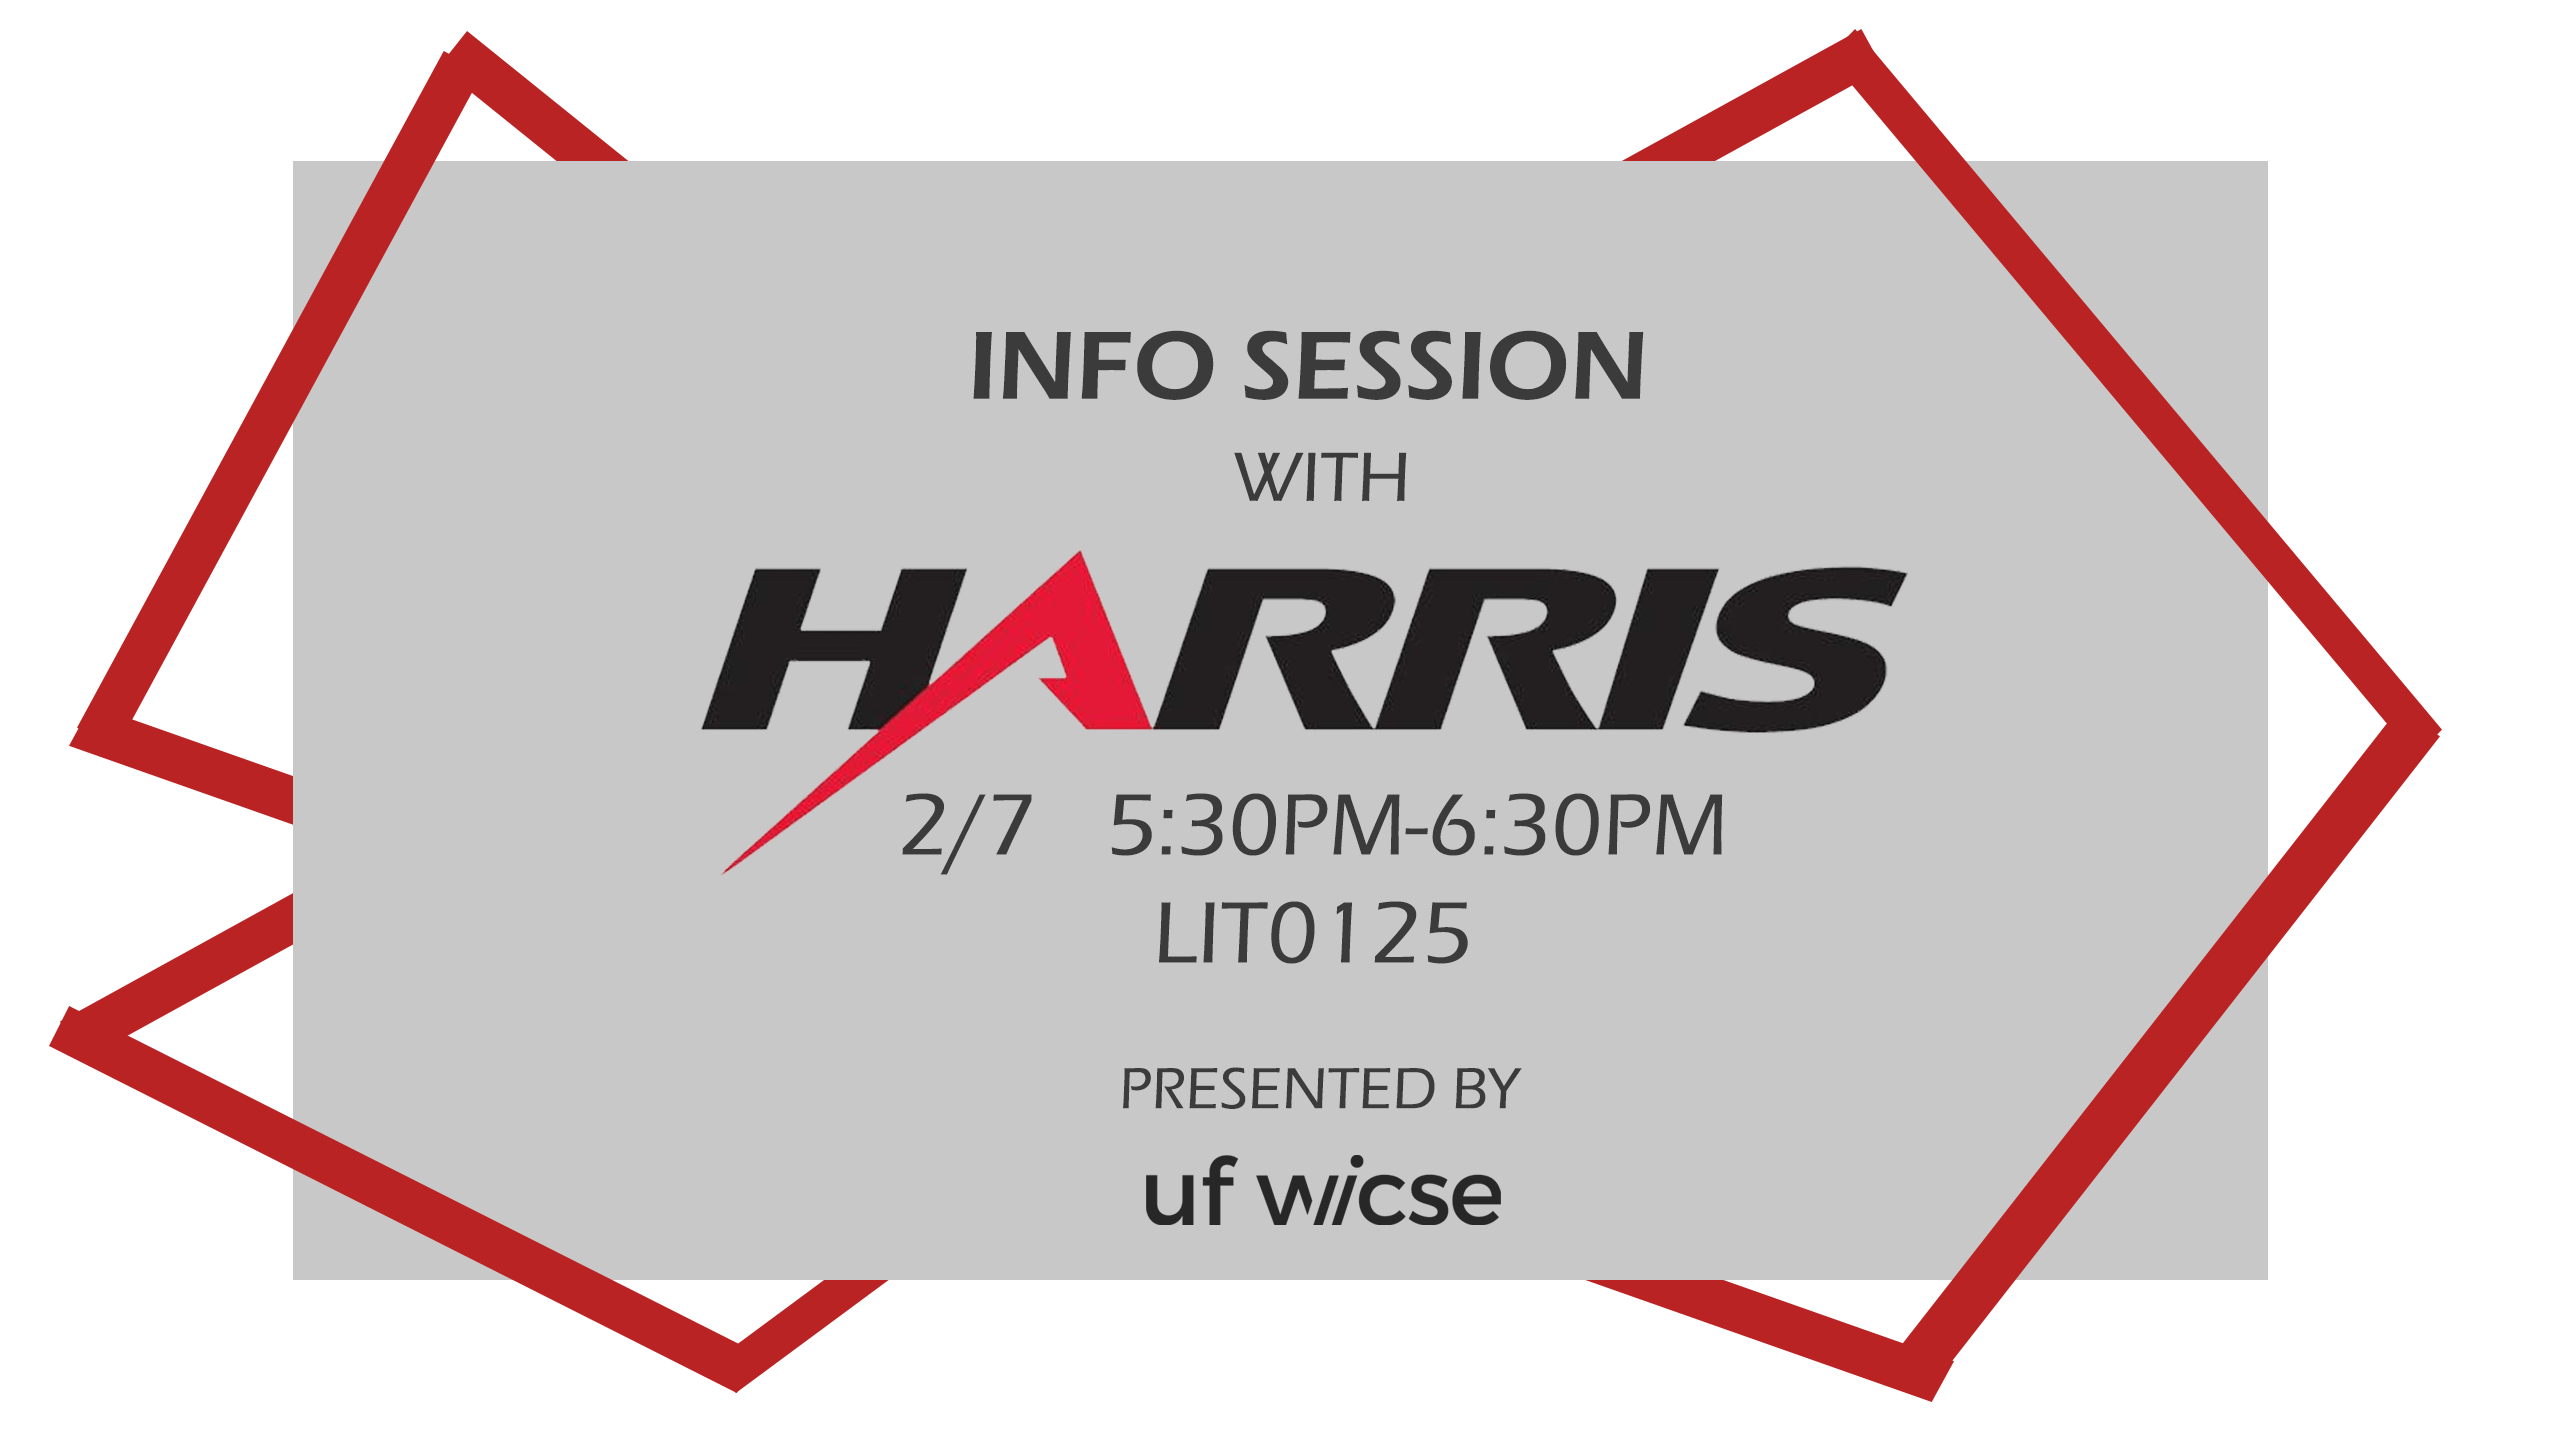
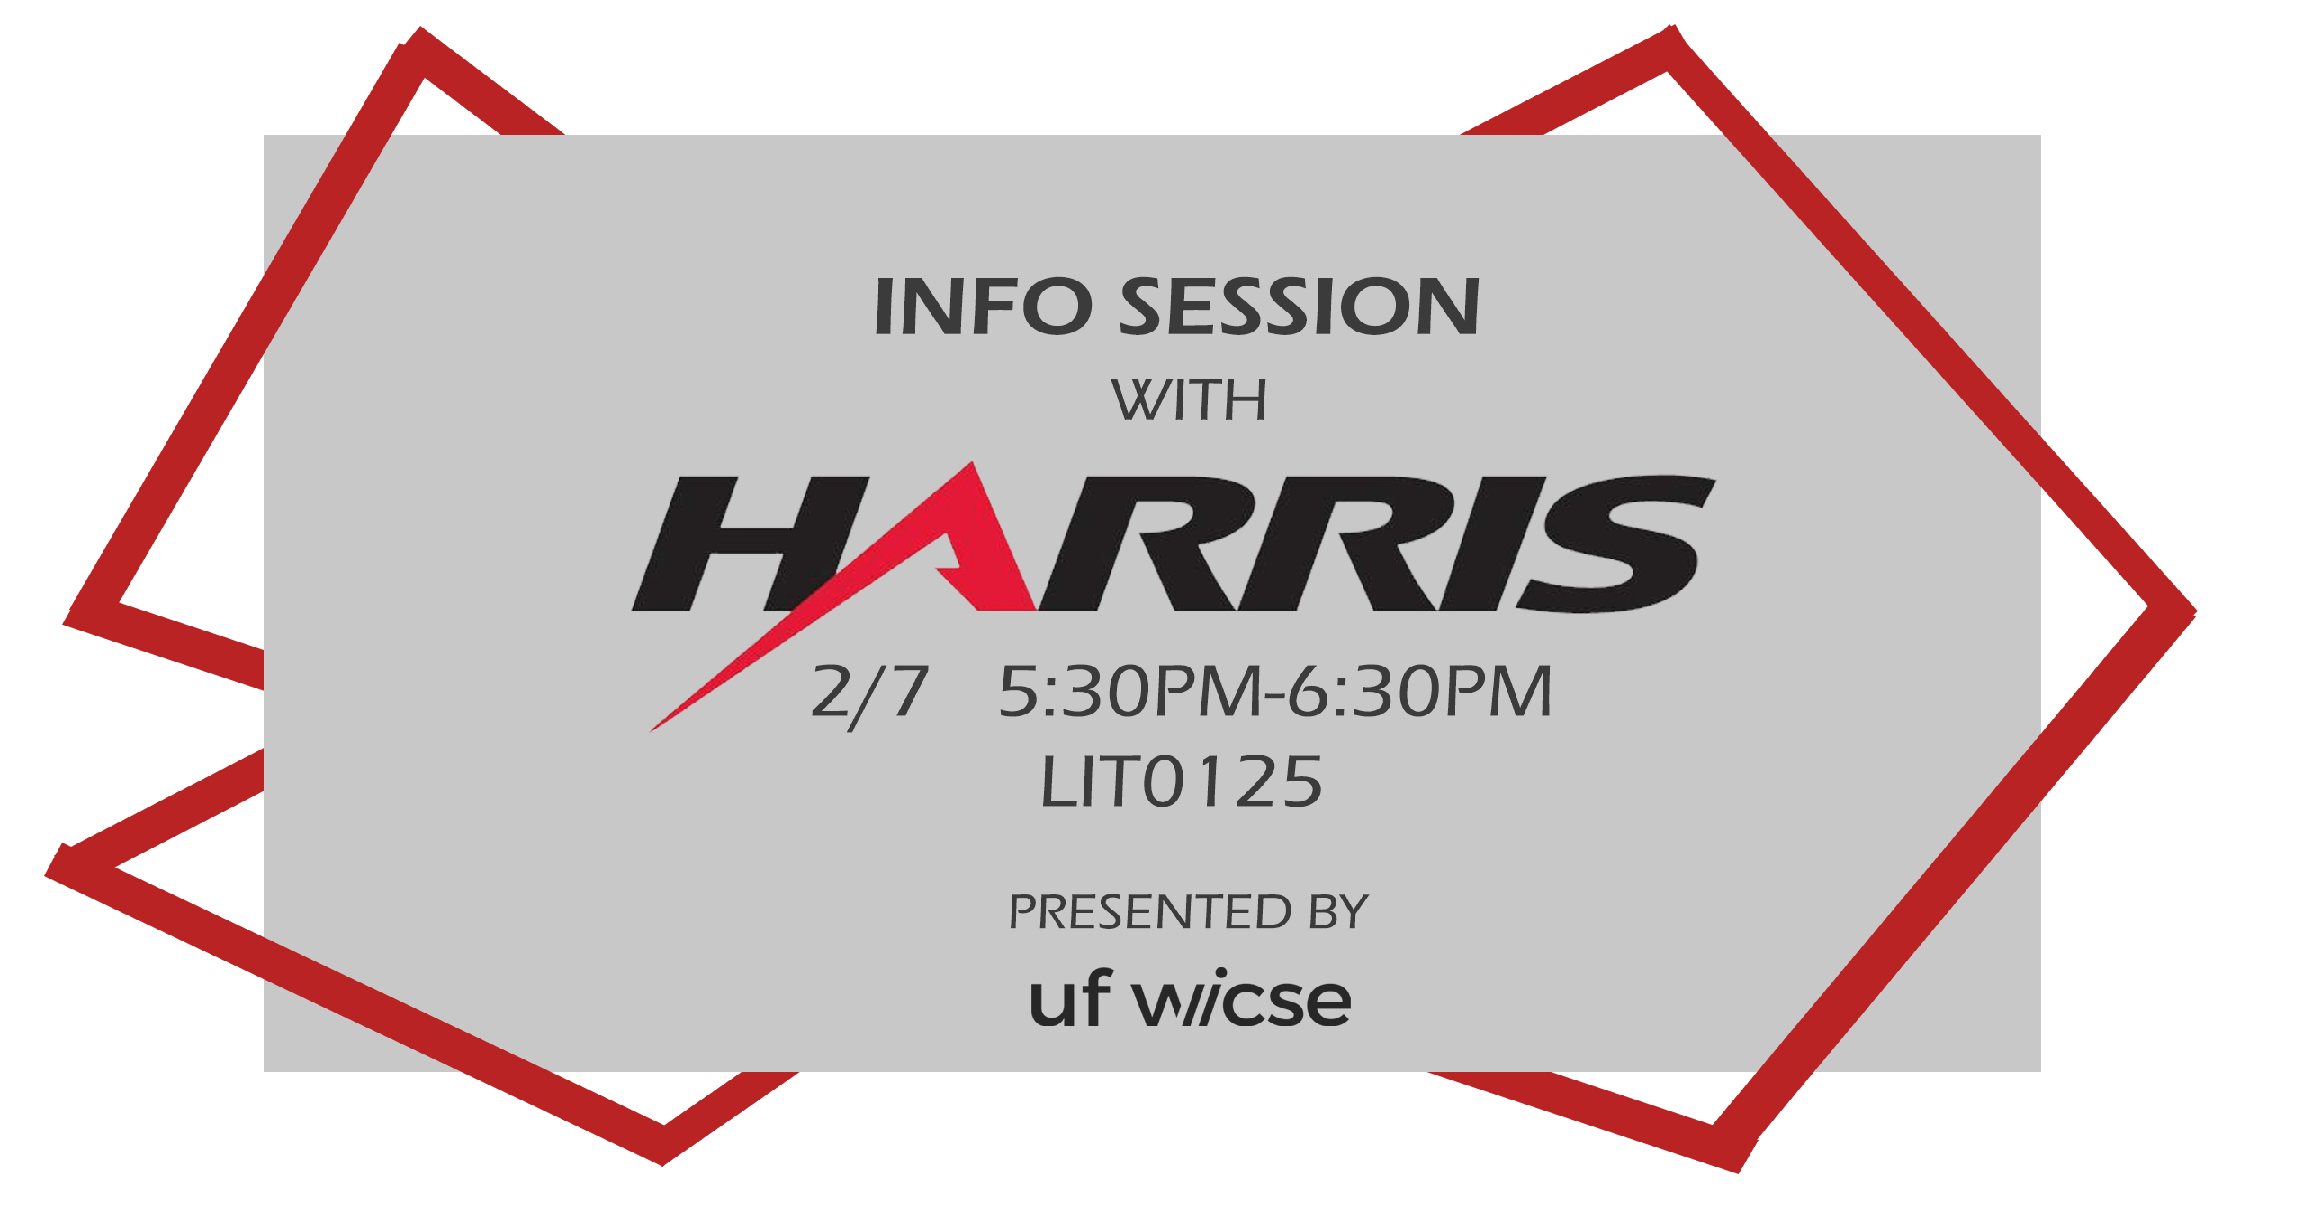
weekly update to website and resizing images

Changed region(s): [[0.4375, 0.7363, 0.4688, 0.767]]

diff --git a/events/index.html b/events/index.html
@@ -63,9 +63,17 @@
       </div>
       <div class="row">
         <div class="col-md-4">
-          <a href="https://www.facebook.com/events/279638702730977/">
+          <a href="https://www.facebook.com/events/233746260864138/">
             <div class="event-container event-margin">
-              <img src="../img/events/2018-2019/smentorship.png" alt="Mentorship Kickoff Event and Resume Review" class="event-image">
+              <img src="../img/events/2018-2019/ultimate.png" alt="Info Session with Ultimate Info" class="event-image">
+              <div class="event-overlay"><div class="event-text">View event details</div></div>
+            </div>
+          </a>
+        </div>
+        <div class="col-md-4">
+          <a href="https://www.facebook.com/events/594063787726098/">
+            <div class="event-container event-margin">
+              <img src="../img/events/2018-2019/harris.png" alt="Info Session with Ultimate Info" class="event-image">
               <div class="event-overlay"><div class="event-text">View event details</div></div>
             </div>
           </a>

diff --git a/events/2018-2019/index.html b/events/2018-2019/index.html
@@ -215,6 +215,7 @@
             </div>
           </a>
         </div>
+      </div>
         <div class="row">
           <div class="col-md-4">
         <a href="https://www.facebook.com/events/261456681210262/">
@@ -232,6 +233,15 @@
           </div>
         </a>
       </div>
+      <div class="col-md-4">
+        <a href="https://www.facebook.com/events/279638702730977/">
+          <div class="event-container event-margin">
+            <img src="../../img/events/2018-2019/smentorship.png" alt="Mentorship Kickoff Event and Resume Review" class="event-image">
+            <div class="event-overlay"><div class="event-text">View event details</div></div>
+          </div>
+        </a>
+      </div>
+    </div>
     </div>
       </div><br>
     </div>
